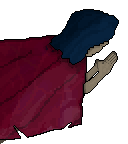
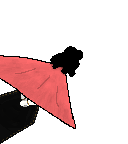
new player sprite

diff --git a/src/main.js b/src/main.js
@@ -111,7 +111,7 @@ import { Table, Player } from "./blackjack";
         cardL2Textures.push(texture);
     }
     const playerTextures = [];
-    for (let i = 0; i < 6; i++) {
+    for (let i = 0; i < 4; i++) {
         const texture = await Assets.load({src: isMobile.phone ? `/assets/player/M000${i+1}.png` : `/assets/player/P000${i+1}.png`, data: {scaleMode: "nearest"}});
         playerTextures.push(texture);
     }
@@ -123,7 +123,7 @@ import { Table, Player } from "./blackjack";
     const keyX2Sprite = new Sprite({texture: isMobile.phone ? pointerTexture : keyXTexture, anchor: 0.5, scale: scale/6});
     const keyVSprite = new Sprite({texture: isMobile.phone ? pointerTexture : keyVTexture, anchor: 0.5, scale: isMobile.phone ? scale/4 : scale/8, eventMode: "static"});
     const keyCSprite = new Sprite({texture: isMobile.phone ? pointerTexture : keyCTexture, anchor: 0.5, scale: isMobile.phone ? scale/4 : scale/8, eventMode: "static"});
-    const playerSprite = new AnimatedSprite({textures: playerTextures, anchor: {x: 0, y: 1}, scale: scale, animationSpeed: 0.1});
+    const playerSprite = new AnimatedSprite({textures: playerTextures, anchor: {x: 0, y: 1}, scale: scale*1.4, animationSpeed: 0.12});
     const dealerSprite = new Sprite({texture: dealerTexture, scale: scale*0.9});
     let dealerSpriteDefaultY = dealerSprite.y;
     const cardBackSprite = new Sprite({texture: cardBackTexture, anchor: 0.5, zIndex: 3});
@@ -737,9 +737,9 @@ import { Table, Player } from "./blackjack";
         backgroundSprite.height = app.screen.height/gameScale;
 
         playerSprite.position.set(-halfWidth, halfHeight);
-        playerNameText.position.set(playerSprite.x+playerSprite.width-spacing, halfHeight - spacing);
-        playerBalanceText.position.set(playerSprite.x+playerSprite.width-spacing, halfHeight - spacing / 1.3);
-        playerBetText.position.set(playerSprite.x+playerSprite.width-spacing, halfHeight - spacing / 2);
+        playerNameText.position.set(playerSprite.x+playerSprite.width-spacing*1.4, halfHeight - spacing);
+        playerBalanceText.position.set(playerSprite.x+playerSprite.width-spacing*1.4, halfHeight - spacing / 1.3);
+        playerBetText.position.set(playerSprite.x+playerSprite.width-spacing*1.4, halfHeight - spacing / 2);
         dealerSprite.position.set(halfWidth-dealerSprite.width, -halfHeight);
         dealerSpriteDefaultY = -halfHeight;
         dealerNameText.position.set(dealerSprite.x-dealerSprite.width/4, -halfHeight + spacing);
